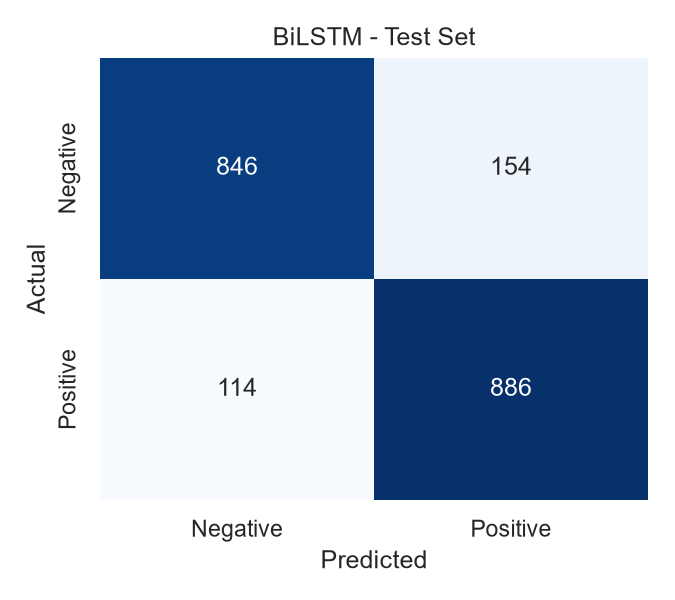
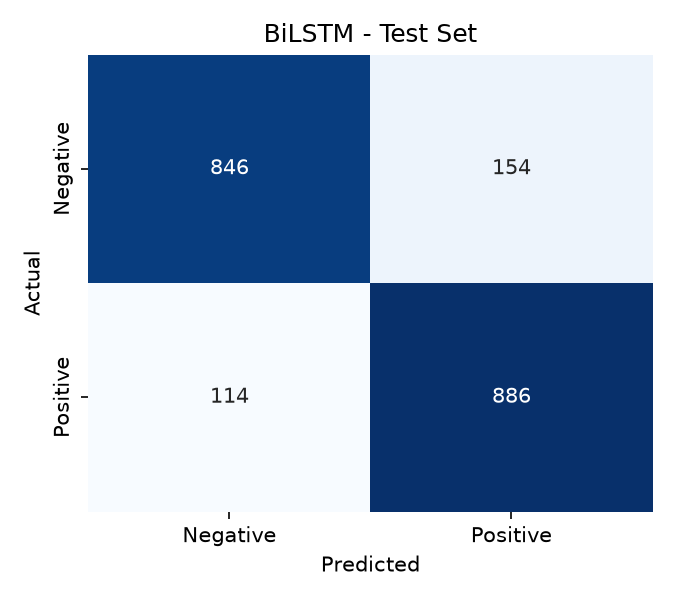
feat(phase-4): model evaluation and benchmark on the shared test set
Accuracy and macro Precision/Recall/F1, sklearn classification reports and confusion matrices for both models on the same 2,000-review test set. 'python -m src.evaluation' regenerates reports/benchmark.md. BiLSTM 86.60% vs DistilBERT 92.40% accuracy.

diff --git a/src/evaluation.py b/src/evaluation.py
@@ -1,0 +1,147 @@
+"""Model evaluation and benchmarking on the shared, independent test set.
+
+Run ``python -m src.evaluation`` to evaluate every trained model through the
+same inference pipeline the app uses and regenerate:
+
+    reports/metrics_<model>.json
+    reports/figures/confusion_matrix_<model>.png
+    reports/benchmark.md
+"""
+
+from __future__ import annotations
+
+import json
+from collections.abc import Sequence
+
+import matplotlib
+import matplotlib.pyplot as plt
+import seaborn as sns
+from sklearn.metrics import (
+    accuracy_score,
+    classification_report,
+    confusion_matrix,
+    precision_recall_fscore_support,
+)
+
+from src import config
+
+LABEL_NAMES = [config.ID2LABEL[i] for i in range(config.NUM_CLASSES)]
+
+
+def compute_metrics(y_true: Sequence[int], y_pred: Sequence[int]) -> dict[str, float]:
+    """Accuracy plus macro-averaged Precision / Recall / F1."""
+    precision, recall, f1, _ = precision_recall_fscore_support(
+        y_true, y_pred, average="macro", zero_division=0
+    )
+    return {
+        "accuracy": float(accuracy_score(y_true, y_pred)),
+        "precision": float(precision),
+        "recall": float(recall),
+        "f1": float(f1),
+    }
+
+
+def report(y_true: Sequence[int], y_pred: Sequence[int]) -> str:
+    return classification_report(y_true, y_pred, target_names=LABEL_NAMES, digits=4)
+
+
+def plot_confusion_matrix(
+    y_true: Sequence[int],
+    y_pred: Sequence[int],
+    title: str,
+    save_path=None,
+    ax=None,
+):
+    cm = confusion_matrix(y_true, y_pred, labels=list(range(config.NUM_CLASSES)))
+    if ax is None:
+        _, ax = plt.subplots(figsize=(4.5, 4))
+    sns.heatmap(
+        cm,
+        annot=True,
+        fmt="d",
+        cmap="Blues",
+        cbar=False,
+        xticklabels=LABEL_NAMES,
+        yticklabels=LABEL_NAMES,
+        ax=ax,
+    )
+    ax.set_xlabel("Predicted")
+    ax.set_ylabel("Actual")
+    ax.set_title(title)
+    if save_path is not None:
+        save_path.parent.mkdir(parents=True, exist_ok=True)
+        ax.figure.tight_layout()
+        ax.figure.savefig(save_path, dpi=150)
+    return ax
+
+
+def save_metrics(model_name: str, metrics: dict, extra: dict | None = None) -> None:
+    config.REPORTS_DIR.mkdir(parents=True, exist_ok=True)
+    payload = {"model": model_name, **metrics, **(extra or {})}
+    path = config.REPORTS_DIR / f"metrics_{model_name.lower()}.json"
+    path.write_text(json.dumps(payload, indent=2), encoding="utf-8")
+
+
+def benchmark_table(model_names: Sequence[str]) -> str:
+    """Markdown benchmark table built from saved ``metrics_<model>.json`` files."""
+    lines = [
+        "| Model | Accuracy | Precision | Recall | F1-Score |",
+        "|---|---:|---:|---:|---:|",
+    ]
+    for name in model_names:
+        path = config.REPORTS_DIR / f"metrics_{name.lower()}.json"
+        if not path.exists():
+            lines.append(f"| {name} | TBD | TBD | TBD | TBD |")
+            continue
+        m = json.loads(path.read_text(encoding="utf-8"))
+        lines.append(
+            f"| {name} | {m['accuracy']:.2%} | {m['precision']:.2%} "
+            f"| {m['recall']:.2%} | {m['f1']:.2%} |"
+        )
+    return "\n".join(lines)
+
+
+def evaluate_predictor(model_name: str, texts: Sequence[str], labels: Sequence[int]) -> dict:
+    """Evaluate one registered model on the given texts; save metrics and figure."""
+    from src.inference import get_predictor
+
+    probs = get_predictor(model_name).predict_proba(list(texts))
+    y_pred = probs.argmax(axis=1).tolist()
+    metrics = compute_metrics(labels, y_pred)
+    print(f"\n=== {model_name} ===\n{report(labels, y_pred)}")
+    save_metrics(model_name, metrics, {"test_samples": len(labels)})
+    plot_confusion_matrix(
+        labels,
+        y_pred,
+        f"{model_name} - Test Set",
+        config.FIGURES_DIR / f"confusion_matrix_{model_name.lower()}.png",
+    )
+    plt.close("all")
+    return metrics
+
+
+def main() -> None:
+    from src.data_utils import prepare_splits
+    from src.inference import AVAILABLE_MODELS
+
+    matplotlib.use("Agg")  # headless: figures are only saved to disk
+    test = prepare_splits()["test"]
+    evaluated = []
+    for name in AVAILABLE_MODELS:
+        try:
+            evaluate_predictor(name, test["text"].tolist(), test["label"].tolist())
+            evaluated.append(name)
+        except FileNotFoundError as exc:
+            print(f"Skipping {name}: {exc}")
+
+    table = benchmark_table(AVAILABLE_MODELS)
+    (config.REPORTS_DIR / "benchmark.md").write_text(
+        f"Test set: {len(test)} reviews (balanced, never used for training or tuning).\n\n"
+        f"{table}\n",
+        encoding="utf-8",
+    )
+    print(f"\n{table}")
+
+
+if __name__ == "__main__":
+    main()

diff --git a/tests/test_evaluation.py b/tests/test_evaluation.py
@@ -1,0 +1,23 @@
+import json
+
+import pytest
+
+from src import config, evaluation
+
+
+def test_compute_metrics_macro_average():
+    metrics = evaluation.compute_metrics([0, 0, 1, 1], [0, 1, 1, 1])
+    assert metrics["accuracy"] == pytest.approx(0.75)
+    # Negative: P=1.0 R=0.5 ; Positive: P=2/3 R=1.0
+    assert metrics["precision"] == pytest.approx((1.0 + 2 / 3) / 2)
+    assert metrics["recall"] == pytest.approx(0.75)
+
+
+def test_benchmark_table_uses_saved_metrics(tmp_path, monkeypatch):
+    monkeypatch.setattr(config, "REPORTS_DIR", tmp_path)
+    (tmp_path / "metrics_bilstm.json").write_text(
+        json.dumps({"accuracy": 0.866, "precision": 0.8666, "recall": 0.866, "f1": 0.8659})
+    )
+    table = evaluation.benchmark_table(["BiLSTM", "DistilBERT"])
+    assert "| BiLSTM | 86.60% | 86.66% | 86.60% | 86.59% |" in table
+    assert "| DistilBERT | TBD | TBD | TBD | TBD |" in table

diff --git a/reports/benchmark.md b/reports/benchmark.md
@@ -1,0 +1,6 @@
+Test set: 2000 reviews (balanced, never used for training or tuning).
+
+| Model | Accuracy | Precision | Recall | F1-Score |
+|---|---:|---:|---:|---:|
+| BiLSTM | 86.60% | 86.66% | 86.60% | 86.59% |
+| DistilBERT | 92.40% | 92.67% | 92.40% | 92.39% |
